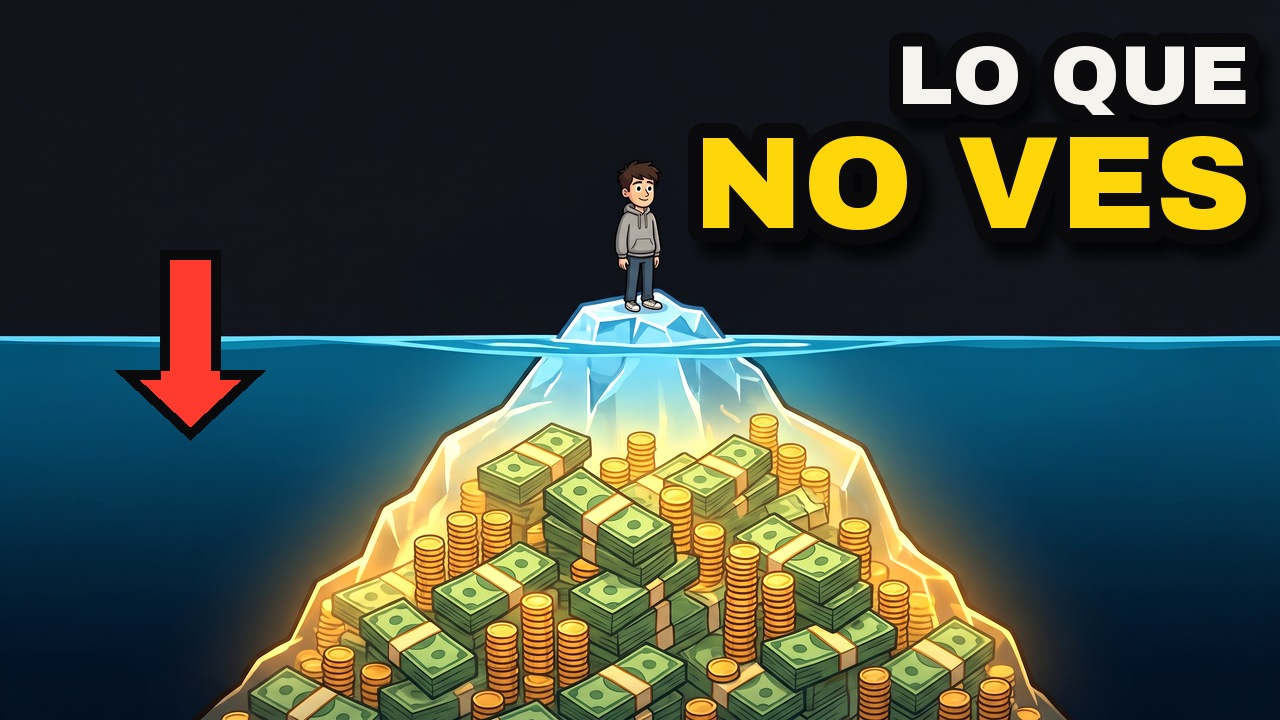
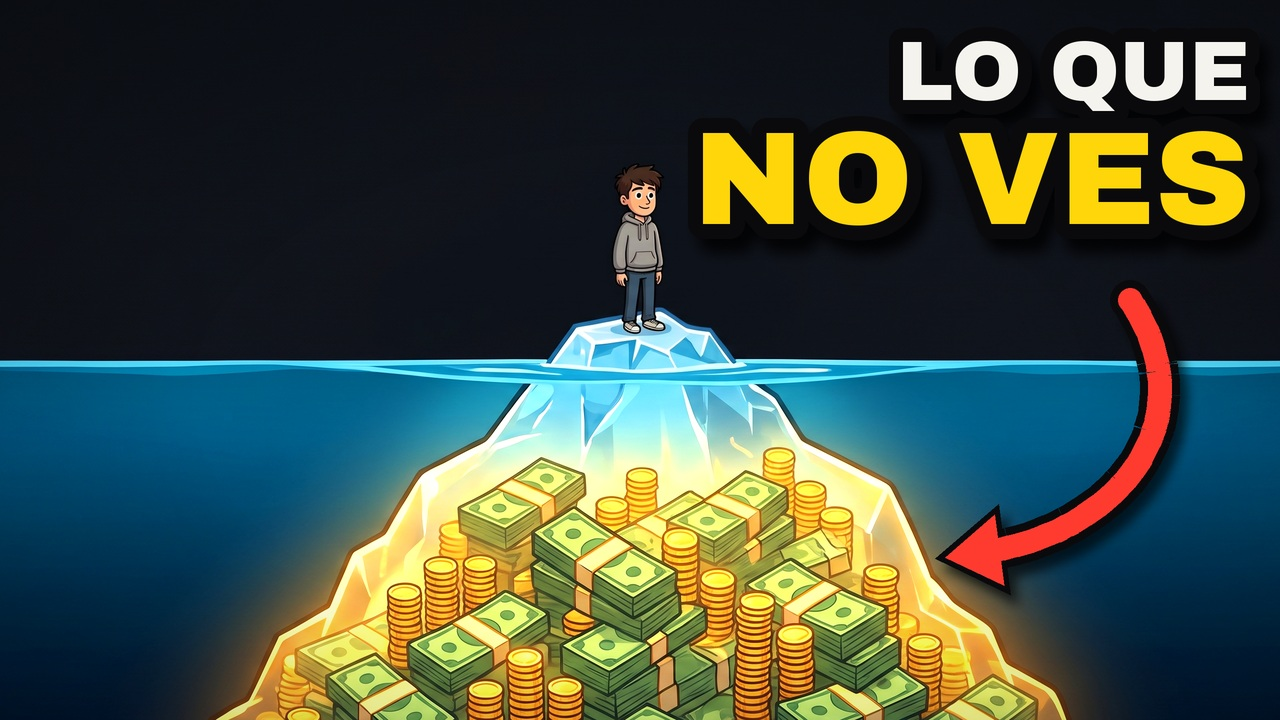
Miniatura A v2: flecha curva al dinero, zoom y más brillo
Claude-Session: https://claude.ai/code/session_015yXVQMZ3ciVXWvMJWjHd8w

diff --git a/contenido/01-parece-pobre-subida.md b/contenido/01-parece-pobre-subida.md
@@ -1,7 +1,7 @@
 # Video 1 — datos para subir
 
 **Título:** Por qué la gente que parece pobre tiene más dinero que tú
-**Miniatura:** canal/assets/video-parece-pobre-miniatura.png (alternativa para "Probar y comparar": hacer una 2.ª versión)
+**Miniatura:** canal/assets/video1-parece-pobre-A-iceberg.jpg (principal) · prueba: canal/assets/video1-parece-pobre-B-comparacion.jpg
 
 **Descripción:**
 Tu compañero estrena auto y todos lo aplauden… pero ¿quién tiene más dinero de verdad? En este video vemos por qué lo que muestras con dinero es dinero que ya no tienes, qué descubrieron los estudios sobre los millonarios "de al lado" y cómo ganar el juego que nadie ve.

diff --git a/conocimiento/titulos-miniaturas.md b/conocimiento/titulos-miniaturas.md
@@ -48,3 +48,4 @@
 4. **La miniatura NO repite el título: lo completa** (título "parece pobre" → miniatura "LO QUE NO VES" / "$0 vs $$$").
 5. El texto nunca tapa al personaje. Verificar a 320×180 (tamaño celular).
 6. Probar en la vista previa de vidIQ (equivale a thumbsup.tv) y subir 2 versiones a "Probar y comparar" de YouTube.
+7. Flechas: siempre deben UNIR el texto con el objeto que importa (curva, estilo dibujada a mano, con contorno negro). Nunca apuntar a un espacio vacío.
